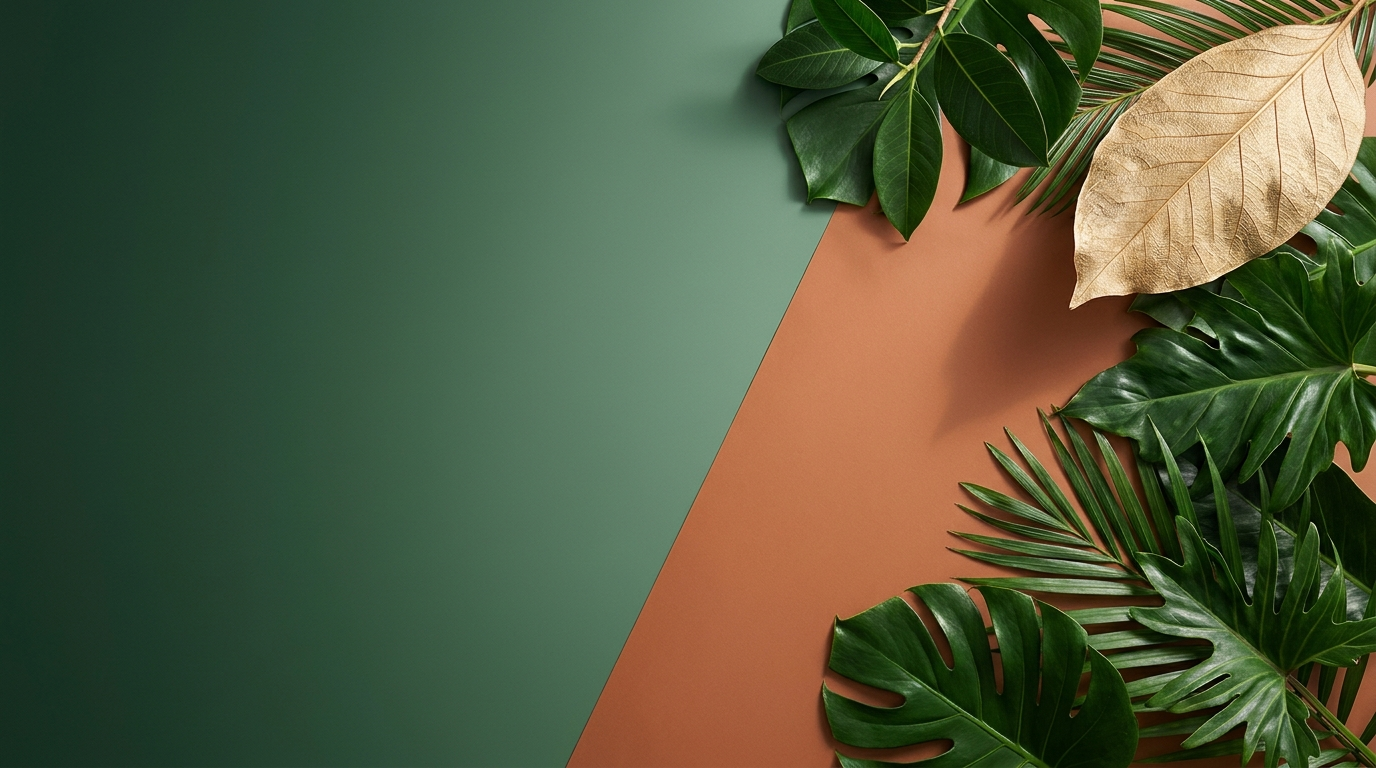
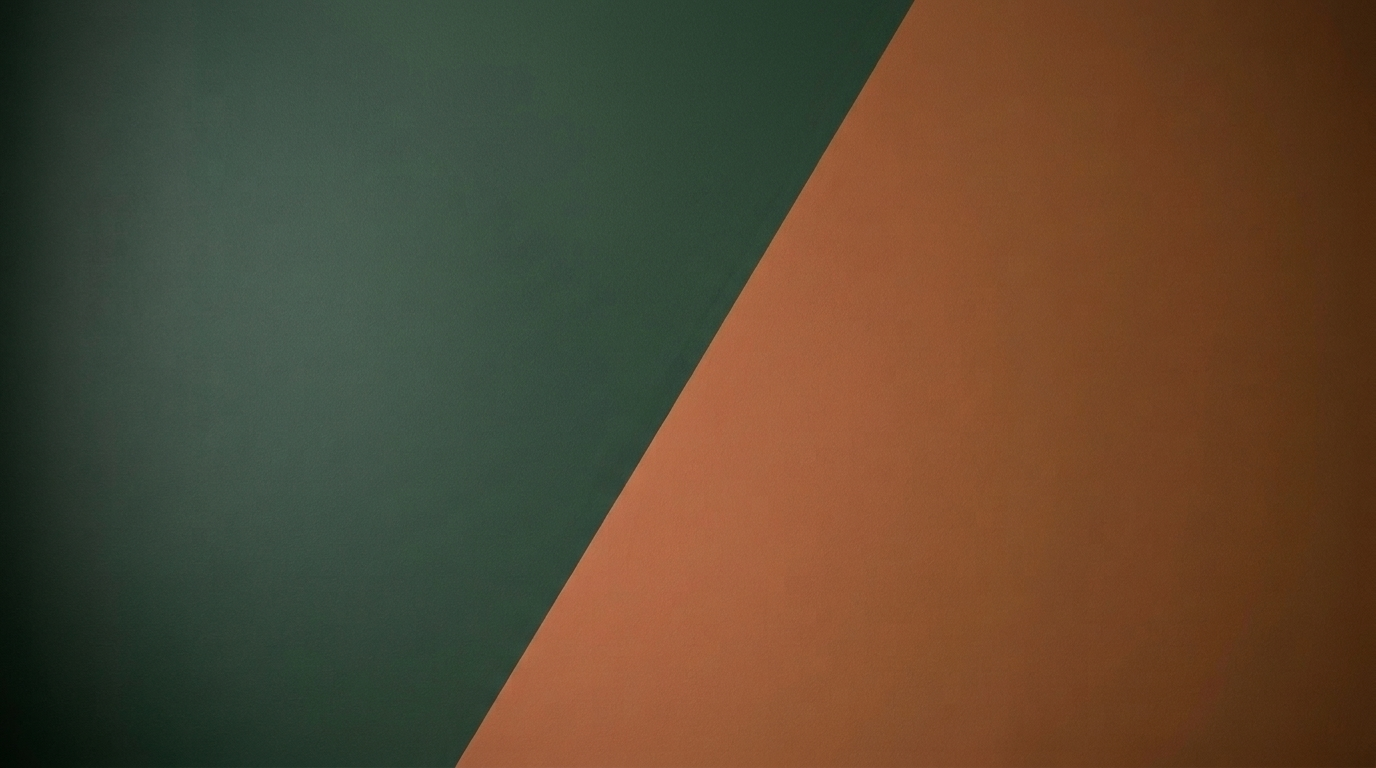
style(hero): remove foliage/leaves and maintain clean two-tone forest & terracotta backdrop

diff --git a/css/style.css b/css/style.css
@@ -284,12 +284,12 @@ a {
   left: 0;
   width: 100%;
   height: 100%;
-  /* Dark forest overlay on the left to ensure high readability while leaving right leaves vivid */
+  /* Subtle soft overlay on the left for contrast while displaying clean two-tone background */
   background: linear-gradient(
     90deg, 
-    rgba(15, 40, 30, 0.95) 0%, 
-    rgba(15, 40, 30, 0.82) 42%, 
-    rgba(15, 40, 30, 0.2) 75%, 
+    rgba(15, 40, 30, 0.78) 0%, 
+    rgba(15, 40, 30, 0.45) 45%, 
+    rgba(15, 40, 30, 0.05) 70%, 
     transparent 100%
   );
 }
